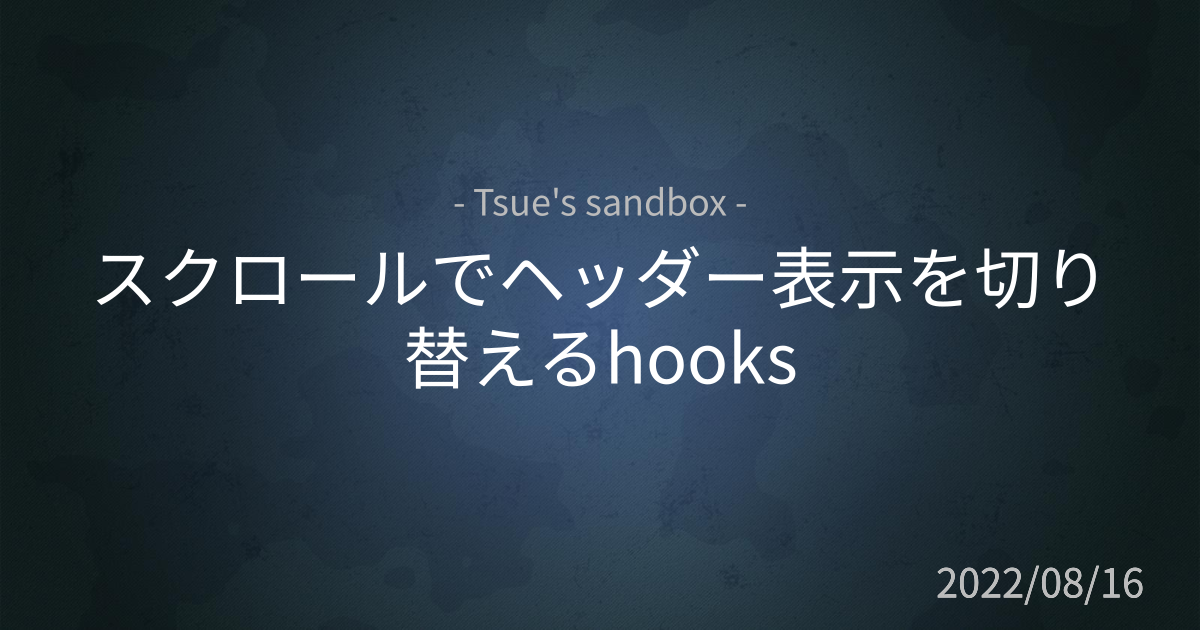
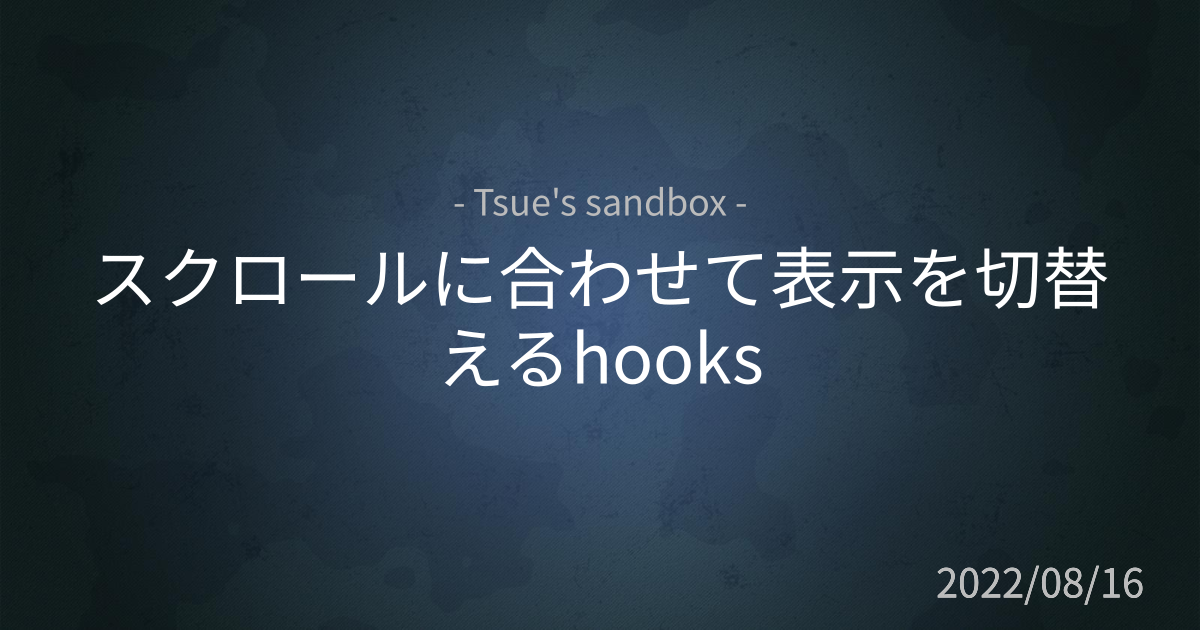
update

Changed region(s): [[0.3392, 0.3921, 0.6783, 0.6333], [0.8633, 0.3921, 0.925, 0.5127]]

diff --git a/src/pages/api/posts/[slug].ts b/src/pages/api/posts/[slug].ts
@@ -3,8 +3,47 @@ import fs from 'fs';
 
 import { NextApiRequest, NextApiResponse } from 'next';
 
-import { createCanvas, registerFont, loadImage } from 'canvas';
+import { createCanvas, registerFont, loadImage, Canvas } from 'canvas';
 import matter from 'gray-matter';
+
+interface SeparatedText {
+  line: string;
+  remaining: string;
+}
+
+const createTextLine = (canvas: Canvas, text: string): SeparatedText => {
+  const context = canvas.getContext('2d');
+  const MAX_WIDTH = 1000 as const;
+
+  for (let i = 0; i < text.length; i += 1) {
+    const line = text.substring(0, i + 1);
+
+    if (context.measureText(line).width > MAX_WIDTH) {
+      return {
+        line,
+        remaining: text.substring(i + 1),
+      };
+    }
+  }
+
+  return {
+    line: text,
+    remaining: '',
+  };
+};
+
+const createTextLines = (canvas: Canvas, text: string): string[] => {
+  const lines: string[] = [];
+  let currentText = text;
+
+  while (currentText !== '') {
+    const separatedText = createTextLine(canvas, currentText);
+    lines.push(separatedText.line);
+    currentText = separatedText.remaining;
+  }
+
+  return lines;
+};
 
 //ローカル用：http://localhost:3000/api/posts/dynamic-ogp
 const createOgp = async (req: NextApiRequest, res: NextApiResponse): Promise<void> => {
@@ -27,11 +66,11 @@ const createOgp = async (req: NextApiRequest, res: NextApiResponse): Promise<voi
   context.drawImage(backgroundImage, DX, DY, WIDTH, HEIGHT);
 
   registerFont('src/assets/fonts/NotoSansJP-Regular.otf', { family: 'NotoSans' });
-  context.font = 'bold 68px NotoSans';
-  context.fillStyle = '#fff';
   context.textAlign = 'center';
   context.textBaseline = 'middle';
-  context.fillText(data.title, 600, 300);
+
+  context.font = '40px NotoSans';
+  context.fillText(data.date.replace(/-/g, '/'), 1040, 580);
 
   context.fillStyle = '#bbb';
   context.font = '40px NotoSans';
@@ -39,6 +78,15 @@ const createOgp = async (req: NextApiRequest, res: NextApiResponse): Promise<voi
 
   context.font = '36px NotoSans';
   context.fillText("- Tsue's sandbox -", 600, 200);
+
+  context.font = 'bold 68px NotoSans';
+  context.fillStyle = '#fff';
+  //titleが長い場合に折り返す
+  const lines = createTextLines(canvas, data.title);
+  lines.forEach((line, index) => {
+    const y = 314 + 80 * (index - (lines.length - 1) / 2);
+    context.fillText(line, 600, y);
+  });
 
   const buffer = canvas.toBuffer();
 

diff --git a/src/posts/hidden-header.md b/src/posts/hidden-header.md
@@ -1,5 +1,5 @@
 ---
-title: 'スクロールでヘッダー表示を切り替えるhooks'
+title: 'スクロールに合わせて表示を切替えるhooks'
 date: '2022-08-16'
 description: 'スクロールでヘッダーの表示・非表示を切り替えるhooksを実装しました。'
 image: images/articles/browser.webp
